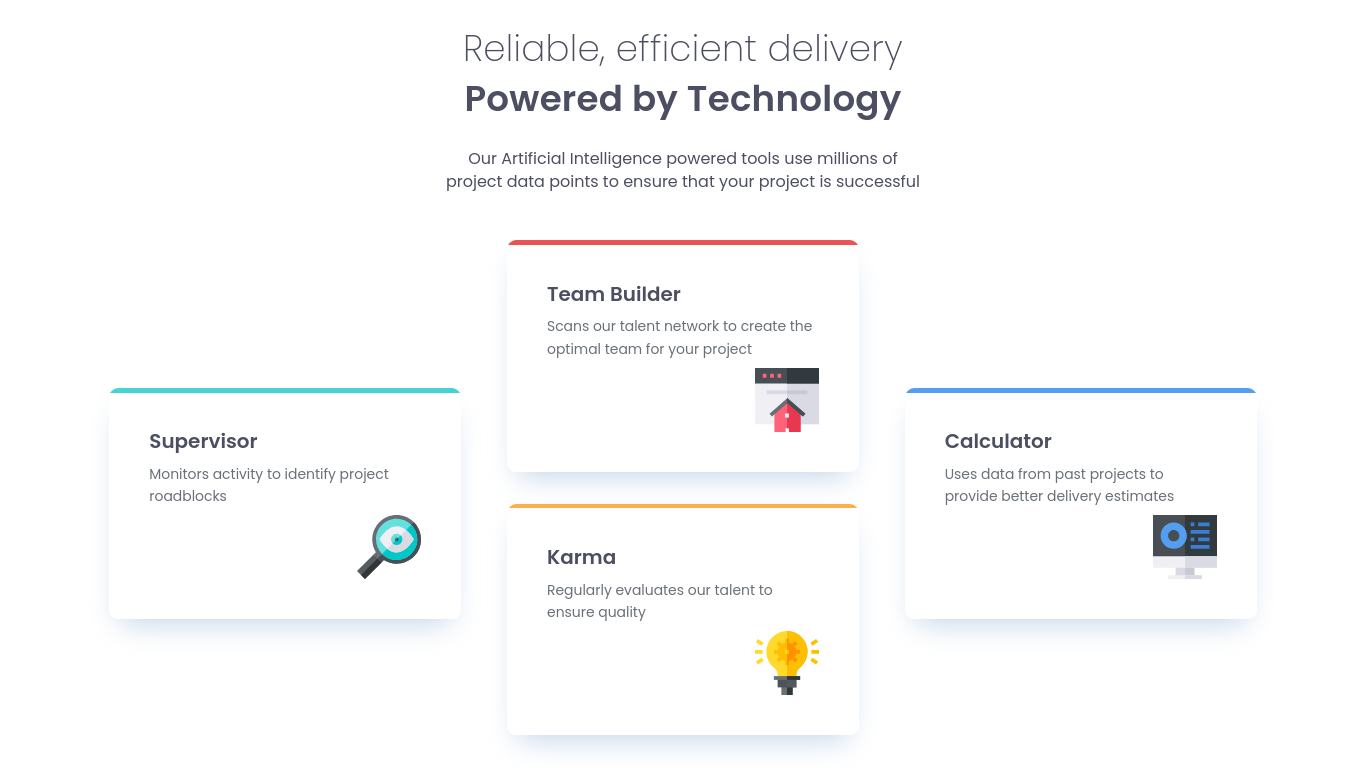
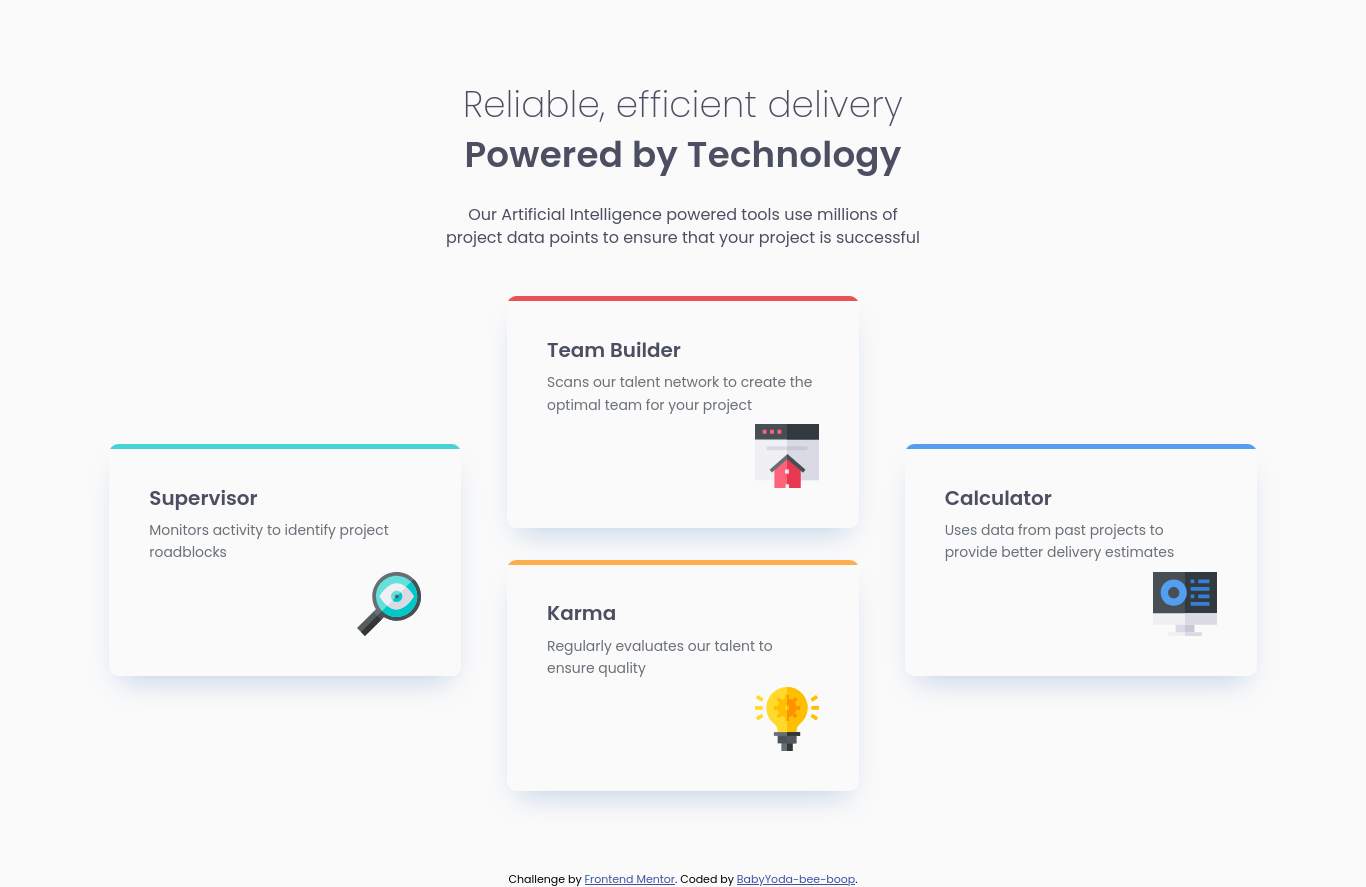
fix bg color and retake prtscr

diff --git a/styles/main.css b/styles/main.css
@@ -37,11 +37,13 @@ body {
   font-family: "Poppins", sans-serif;
   line-height: 1.4;
   font-weight: 400;
+  background-color: #fafafa;
 }
 
 .header {
   text-align: center;
   color: hsl(234, 12%, 34%);
+  margin-top: 7.5em;
 }
 .header__title {
   font-size: clamp(1.5625rem, 1.311rem + 1.0732vw, 2.25rem);

diff --git a/styles/_page.scss b/styles/_page.scss
@@ -6,12 +6,14 @@ body {
   font-family: $ff-primary;
   line-height: $flh-140;
   font-weight: 400;
+  background-color: $clr-page-bg;
 }
 
 // header
 .header {
   text-align: center;
   color: $clr-grey-500;
+  margin-top: em($space-250) * 3;
 
   &__title {
     font-size: $fs-700;

diff --git a/styles/_variables.scss b/styles/_variables.scss
@@ -3,6 +3,7 @@
 $clr-grey-500: hsl(234, 12%, 34%);
 $clr-grey-400: hsl(212, 6%, 44%);
 $clr-white: hsl(0, 0%, 100%);
+$clr-page-bg: #fafafa;
 
 $clr-accent-red: hsl(0, 78%, 62%);
 $clr-accent-cyan: hsl(180, 62%, 55%);
